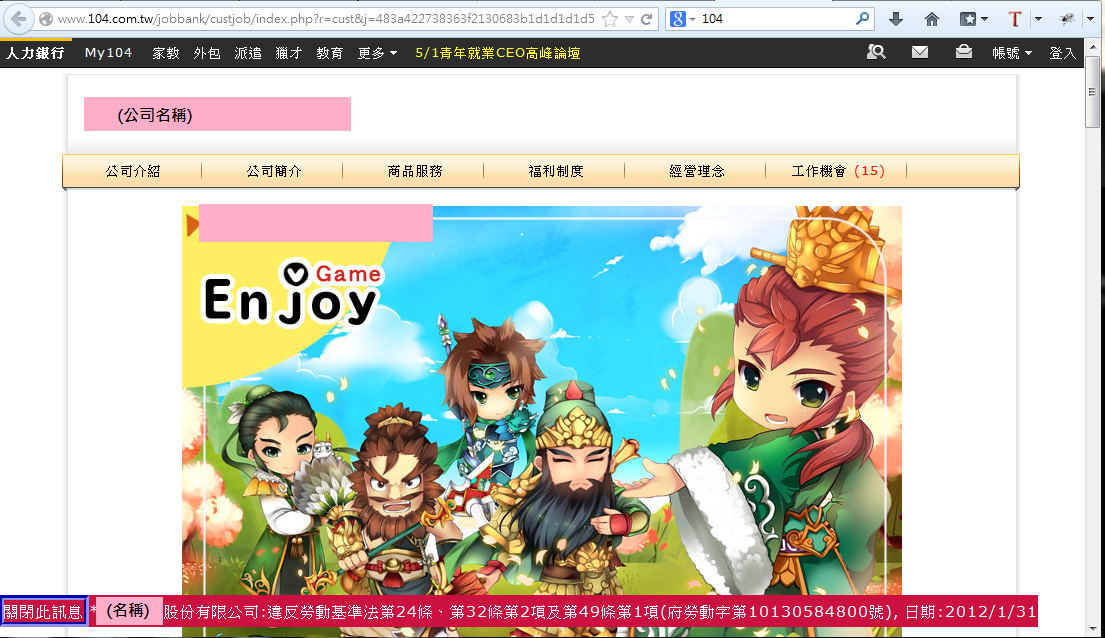
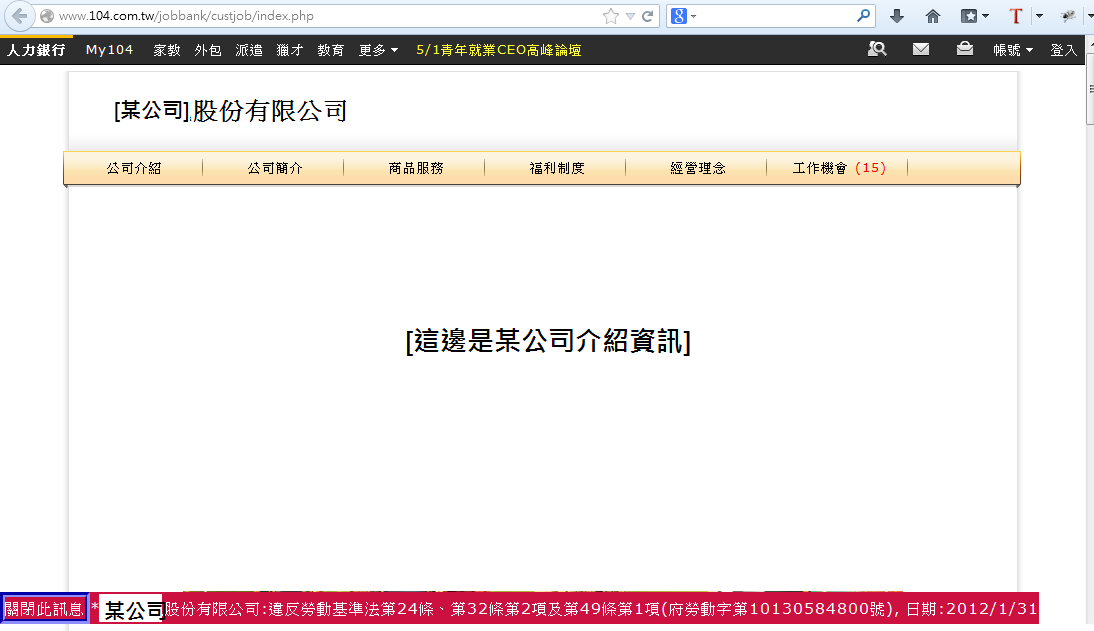
更新使用的API與畫面設定
畫面: 高度最高為可顯示畫面的30%
API: 使用
http://jobhelper.g0v.ronny.tw/api/search?name={公司名稱}&url={正在看的網址}&packages=cookie

diff --git a/chrome/content/jobHelperDataMap.js b/chrome/content/jobHelperDataMap.js
@@ -4,42 +4,93 @@
  * 信箱: y78427@gmail.com
  * 目的: 顯示違反勞基法的資訊, 如果有的話
  */
-function jobHelperDataMap(whenGet) {
-  if(!whenGet) {
-    return ;
+
+function getJobHelperData(companyName, companyURL, whenGet) {
+  if (!companyName || !companyURL || !whenGet) {
+    return;
   }
 
-  // 用localStorage儲存資料
-  var storage = content.window.localStorage;
-  var packageInfo = storage.getItem("helperData");
-  if(packageInfo) {
-    packageInfo = JSON.parse(packageInfo);
-  }
-
-  // 檢查本地端是否有package_info, 有的話檢查下載資料的時間是否在一週以內
-  // 如果上述檢查沒通過就重新下載package_info
-  if(!packageInfo || !packageInfo.fetchTime || packageInfo.fetchTime + 604800*1000 < new Date().getTime()) {
-    getPackageInfo(whenGet);
-  }
-  else {
-    var pInfo = packageInfo.data;
-    for(var i = 0; i < pInfo.length; i++) {
-      var pkg = storage.getItem("helperData_" + pInfo[i].id);
-      if(pkg) {
-        pkg = JSON.parse(pkg);
+  getDataByNameOnline(companyName, companyURL, whenGet, getLocalData);
+  
+  
+  /**
+   * Purpose: 線上要資料
+   */ 
+  function getDataByNameOnline(companyName, companyURL, success, fail) {
+    var xhr = new XMLHttpRequest(), 
+        url = 'http://jobhelper.g0v.ronny.tw/api/search?name=' + encodeURIComponent(companyName) + '&url=' + encodeURIComponent(companyURL) + '&packages=cookie';
+    
+    xhr.open("GET", url);
+    xhr.onreadystatechange = function() {
+      if(xhr.readyState === 4 && xhr.status === 200) {
+        callback(JSON.parse(xhr.responseText));
       }
-      
-      if(pkg) {
-        pkg.data.url = pInfo[i].url;
-        whenGet(pkg.data);
+    };
+    xhr.send();
+    
+    function callback(ret) {
+      if(ret.error) {
+        fail(ret.message);
       }
       else {
-        getPackage(pInfo[i].id, pInfo[i].name, whenGet);
+        var data = [], tmp;
+        data.func = "getDataByNameOnline";
+        ret.data.forEach(function(item){
+          tmp = [];
+          tmp[0] = item.name;
+          tmp[1] = item.date.replace(/-/g, "/");
+          tmp[2] = item.reason;
+          tmp[3] = item.link;
+          tmp[4] = item.snapshot;
+          tmp.url = getPackageURL(item.package_id);
+          data.push(tmp);
+        });
+        success(data);
+      }
+    }
+    
+    function getPackageURL(id) {
+      return "http://jobhelper.g0v.ronny.tw/package/show/" + id;
+    }
+  }
+  
+  /**
+   * Purpose: 取得本地端的資料
+   * Description: 檢查本地端是否有package_info, 有的話檢查下載資料的時間是否在三天以內. 如果上述檢查沒通過就重新下載package_info
+   */
+  function getLocalData() {
+    var storage = content.window.localStorage,
+        packageInfo = storage.getItem("helperData");
+        
+    if(packageInfo) {
+      packageInfo = JSON.parse(packageInfo);
+    }
+  
+    if(!packageInfo || !packageInfo.fetchTime || packageInfo.fetchTime + 259200*1000 < new Date().getTime()) {
+      getPackageInfo(whenGet);
+    }
+    else {
+      var pInfo = packageInfo.data;
+      for(var i = 0; i < pInfo.length; i++) {
+        var pkg = storage.getItem("helperData_" + pInfo[i].id);
+        if(pkg) {
+          pkg = JSON.parse(pkg);
+        }
+        
+        if(pkg) {
+          pkg.data.url = pInfo[i].url;
+          whenGet(pkg.data);
+        }
+        else {
+          getPackage(pInfo[i].id, pInfo[i].name, whenGet);
+        }
       }
     }
   }
   
-  // 從網站下載package_info並且儲存起來, 如果成功就進行 whenGet
+  /**
+   * Purpose: 從網站下載package_info並且儲存起來, 如果成功就進行 whenGet
+   */
   function getPackageInfo(whenGet) {
     var xhr = new XMLHttpRequest();
     xhr.open("GET", "http://jobhelper.g0v.ronny.tw/api/getpackages/");
@@ -63,7 +114,9 @@ function jobHelperDataMap(whenGet) {
     }
   }
   
-  // 從網站下載package, 如果成功就進行 whenGet
+  /**
+   * Purpose: 從網站下載package, 如果成功就進行 whenGet
+   */
   function getPackage(pID, pName, whenGet) {
     var xhr = new XMLHttpRequest();
     xhr.open("GET", "http://jobhelper.g0v.ronny.tw/api/getpackage?id=" + pID);

diff --git a/chrome/content/jobHelper.js b/chrome/content/jobHelper.js
@@ -6,7 +6,10 @@
  * 註記: 本專案的構想源自於"求職小幫手" http://jobhelper.g0v.ronny.tw/
          專案程式碼是從"http://robertnyman.com/2009/01/24/how-to-develop-a-firefox-extension/"裏頭的範例修改來的
  */
-// to get the company info if any
+
+/**
+ * Purpose: to get the company info if any
+ */
 function get_company_info() {
   var params = {},
       doc = content.document,
@@ -124,10 +127,13 @@ function main() {
     
     style = div.style;
     style.background = "#cc103f";
-    style.bottom = "10px";
+    style.bottom = "0px";
     style.fontSize = "14.5px";
     style.position = "fixed";
     style.zIndex = "999";
+    style.maxHeight = "30%";
+    style.maxWidth = "1000px";
+    style.overflow = "auto";
     
     closeDiv = document.createElement("div");
     closeDiv.setAttribute("id", "closeDiv");
@@ -136,6 +142,14 @@ function main() {
     closeDiv.style.color = "WHITE";
     closeDiv.style.cursor = "pointer";
     closeDiv.addEventListener("click", function(e){e.target.parentNode.style.display="none";});
+    div.appendChild(closeDiv);
+    
+    closeDiv = document.createElement("div");
+    closeDiv.innerHTML = "設定要查詢的資料";
+    closeDiv.style.border = "#0000FF 5px groove";
+    closeDiv.style.color = "WHITE";
+    closeDiv.style.cursor = "pointer";
+    closeDiv.addEventListener("click", function(e){window.open("http://jobhelper.g0v.ronny.tw/index/setpackage", "_blank");});
     
     div.appendChild(closeDiv);
     doc.body.appendChild(div);
@@ -152,19 +166,30 @@ function main() {
       }
     });
   });
-  
+
   // 處理 jobhelper 網站上的資料
-  jobHelperDataMap(function(data) {
-    var packageURL = data.url;
+  getJobHelperData(companyInfo.name, companyInfo.link, function(data) {
+    if (!data) {
+      return ;
+    }
+
+    var packageURL = data.url, url;
     data.forEach(function(item) {
       if(item[0].indexOf(companyInfo.name) >= 0 || companyInfo.name.indexOf(item[0]) >= 0) {
-        var url = packageURL + "#company-" + item[0] + "-" + item[1];
-        appendAlertMsg("*" + item[0] + ":違反" + item[2] + ", 日期:" + item[1], url);
+        if(data.func === "getDataByNameOnline") {
+          url = item.url + "#company-" + item[0] + "-" + item[1];
+        }
+        else {
+          url = packageURL + "#company-" + item[0] + "-" + item[1];
+        }
+        appendAlertMsg("*" + item[0] + ":" + item[2] + ", 日期:" + item[1], url);
       }
     });
   });
   
-  // 將違規資訊加入 myAlertDiv 裡頭 (這邊使用了 lazy function definition pattern)
+  /**
+   * Purpose: 將違規資訊加入 myAlertDiv 裡頭 (這邊使用了 lazy function definition pattern)
+   */ 
   function appendAlertMsg(msg, link) {
     firstCall();
     
